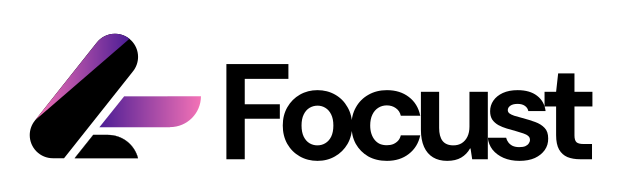
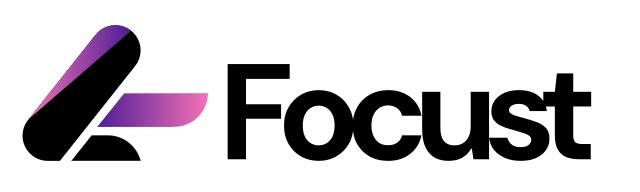
Minor fixes & Added more documentation
I modified the `.png` files in `resources/images` directory to fix some issues with the logo, plus fixed some minor spelling mistakes as well as finished off incomplete sentences.

diff --git a/resources/docs/BUILD_USING_DOCKER.md b/resources/docs/BUILD_USING_DOCKER.md
@@ -1,3 +1,42 @@
 # Focust - Build from Source using Docker and Docker Compose
 This markdown document is used as a guide for anyone who wants to build Focust using [*Docker Compose*](https://github.com/docker/compose).
 
+## Spring Application
+
+
+### SSL Certificate
+First, we need to a SSL certificate with `focust-spring` and `focust-spring.p12` being the *alias* and *keystore* respectively. You can do this by creating a **Self-Signed SSL Certificate**. If you want more information on how to create a Self-Signed SSL Certificate, I recommend the page ["How to Enable HTTPS in Spring Boot Application?"](https://www.geeksforgeeks.org/how-to-enable-https-in-spring-boot-application/) by *GeeksForGeeks*.
+
+I recommend placing the generated `.p12` file into a hidden directory `.secrets` in the main project directory.
+
+> [!IMPORTANT]
+> changing the alias and keystore of the SSL Certificate should be reflected in the `./spring/src/main/resources/application.properties` file with the properties `server.ssl.key-store-alias` and `server.ssl.key-store`, respectively. Note that the `server.ssl.key-store` property needs to accept a value of `classpath:/keystore/[KEYSTORE]`, where `[KEYSTORE]` is the keystore value.
+
+### Modifying `application.properties`
+Next, we need to add the necessary sensitive information into the `./spring/src/main/resources/application.properties` file, as it is needed for the Spring Application to work properly. Once we open the file on an editor, you should see the following comment at the bottom of the file:
+
+```application.properties
+#====================================================#
+#   Below will contain lines generated by Docker,    #
+#   as it would include sensitive information that   #
+#   should not be leaked in the GitHub repository.   #
+#====================================================#
+```
+
+Below this is where you add the needed information, where the fields `[MYSQL_DATABASE_PASSWORD]` (password for `root`), `[SPRING_SECURITY_PASSWORD]`, and `[SSL_KEYSTORE_PASSWORD]` (password used to create the SSL Certificate)
+
+```application.properties
+
+### DATABASE ###
+spring.datasource.username = root
+spring.datasource.password = [MYSQL_DATABASE_PASSWORD]
+
+### SPRING SECURITY ###
+spring.security.user.name = spring-admin
+spring.security.user.password = [SPRING_SECURITY_PASSWORD]
+
+### SSL ###
+server.ssl.key-store-password=[SSL_KEYSTORE_PASSWORD]
+
+```
+

diff --git a/resources/docs/BUILD_USING_JENKINS.md b/resources/docs/BUILD_USING_JENKINS.md
@@ -38,10 +38,17 @@ The recommend approach is to create a Linux-based Jenkins slave. You can create 
 ## Adding Necessary Credentials
 Before actually creating a job that will build the application, it is actually rather important to create the needed credentials that the `Jenkinsfile` needs to 
 
-The credentials needed are username & password credentials with the following IDs:
+The first two credentials needed are **username & password** credentials with the following IDs:
 
 * `focust-spring-security` - for Spring Security
 * `focust-mysql-database` - for MySQL Database
+
+The last credential needed is an **certificate** credential, where you upload an appropriate `PKCS12` *SSL Certificate*:
+
+* `focust-spring-ssl-certificate` - to enable HTTPS for the Spring Application; `focust-spring` and `focust-spring.p12` are the values for *alias* and the *keystore*, respectively.
+
+> [!IMPORTANT]
+> changing the alias and keystore of the SSL Certificate should be reflected in the `./spring/src/main/resources/application.properties` file with the properties `server.ssl.key-store-alias` and `server.ssl.key-store`, respectively. Note that the `server.ssl.key-store` property needs to accept a value of `classpath:/keystore/[KEYSTORE]`, where `[KEYSTORE]` is the keystore value.
 
 To create Credentials in Jenkins, please refer to [this page](https://www.jenkins.io/doc/book/using/using-credentials/) on the Jenkins website.
 
@@ -64,4 +71,4 @@ It should look something like this:
 Now, all you have to do is press "Save" and you should finally have the job available on the Jenkins dashboard.
 
 ## Running the Build
-Once back on the dashboard, all you have to do is press the Green arrow for 
+Once back on the dashboard, all you have to do is press the Green arrow on the job and, if all goes well, the Jenkins job should have a green checkmark next to it after refreshing the page once the build is completed.

diff --git a/README.md b/README.md
@@ -1,7 +1,7 @@
 <picture>
     <source media="(prefers-color-scheme: dark)" srcset="resources/images/focust-banner-white.png" width="512">
     <source media="(prefers-color-scheme: light)" srcset="resources/images/focust-banner-black.png" width="512">
-    <img alt="Shows the banner for Focust, using white instead of black in dark mode to make the text in the image viewable." src="focust-banner-black.png" width="512">
+    <img alt="Shows the banner for Focust, using white instead of black in dark mode to make the text in the image viewable." src="resources/images/focust-banner-black.png" width="512">
 </picture>
 
 # About
@@ -35,4 +35,4 @@ There are multiple ways to build this application from source code:
 
 # License
 
-Focust is licensed under the **[GNU General Public License v3.0](LICENSE)**. To learn more, go to *https://www.gnu.org/licenses/*.hib
+Focust is licensed under the **[GNU General Public License v3.0](LICENSE)**. To learn more, go to *https://www.gnu.org/licenses/*
